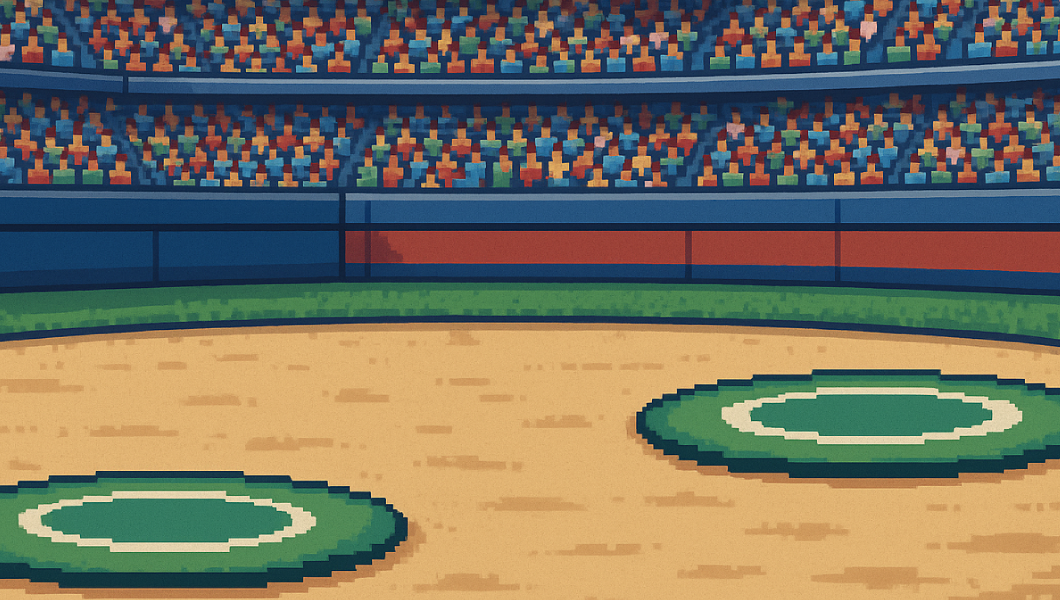
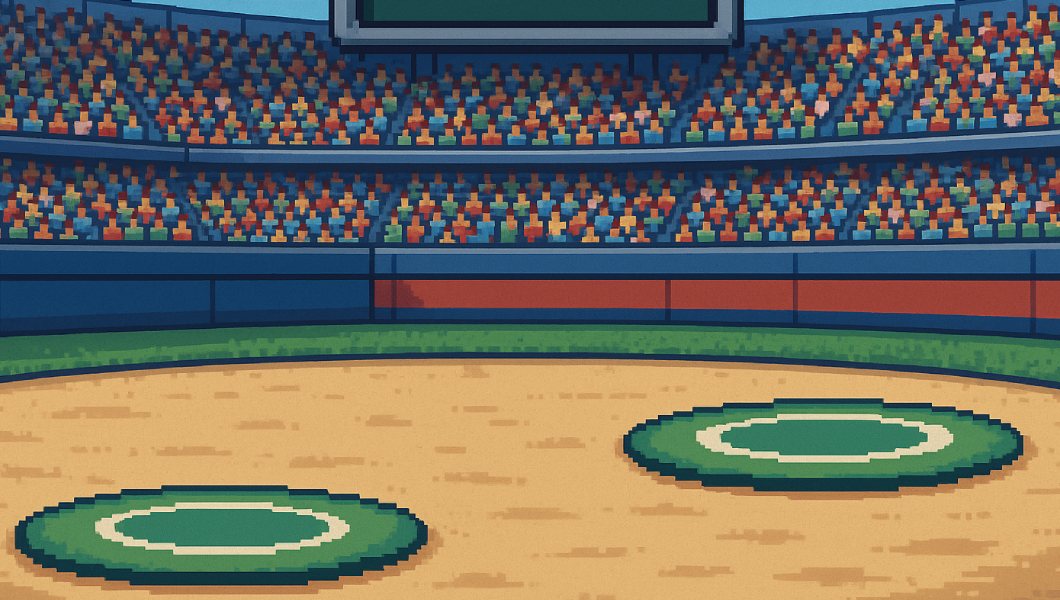
BattleFild design and layout

diff --git a/components/BattleField.tsx b/components/BattleField.tsx
@@ -69,8 +69,8 @@ export default function BattleField({
       )}
       {/* Enemy Pokemon Info Box - Top */}
       <div
-        className="absolute top-4 right-48 transform -translate-x-1 z-10"
-        style={{ top: "160px" }}
+        className="absolute top-4 right-72 transform -translate-x-1 z-10"
+        style={{ top: "220px" }}
       >
         <div className="bg-gameboy-light border-2 border-black p-2 md:p-3 rounded shadow-lg">
           <div className="pixel-font text-xs md:text-sm font-bold text-gameboy-darkest mb-1 md:mb-2">
@@ -93,7 +93,7 @@ export default function BattleField({
       </div>
 
       {/* Enemy Pokemon Sprite - Top Right */}
-      <div className="absolute right-1 md:right-20" style={{ top: "220px" }}>
+      <div className="absolute right-1 md:right-28" style={{ top: "260px" }}>
         <div
           className={`relative transition-all duration-300 ${
             battleAnimation.target === "enemy" &&
@@ -132,7 +132,7 @@ export default function BattleField({
       </div>
 
       {/* Player Pokemon Sprite - Bottom Left */}
-      <div className="absolute bottom-4 md:bottom-4 left-1 md:left-1">
+      <div className="absolute bottom-4 md:bottom-4 left-1 md:left-8">
         <div
           className={`relative transition-all duration-300 ${
             battleAnimation.target === "player" &&
@@ -172,7 +172,7 @@ export default function BattleField({
       </div>
 
       {/* Player Pokemon Info Box - Bottom */}
-      <div className="absolute bottom-72 left-52 transform -translate-x-1">
+      <div className="absolute bottom-10 left-80 transform -translate-x-1">
         <div className="bg-gameboy-light border-2 border-black p-2 md:p-3 rounded shadow-lg">
           <div className="pixel-font text-xs md:text-sm font-bold text-gameboy-darkest mb-1 md:mb-2">
             {playerPokemon.name.toUpperCase()} ♂ Lv.{playerLevel}

diff --git a/types/pokemon.ts b/types/pokemon.ts
@@ -280,8 +280,9 @@ export const battleBackgrounds: BattleBackground[] = [
     style: "image",
   },
   {
-    name: "Beach",
+    name: "Lake",
     gradient: "linear-gradient(135deg, #03A9F4 0%, #FFEB3B 100%)",
-    style: "gradient",
+    image: "/images/pixelBattleArena_lake.png",
+    style: "image",
   },
 ];
